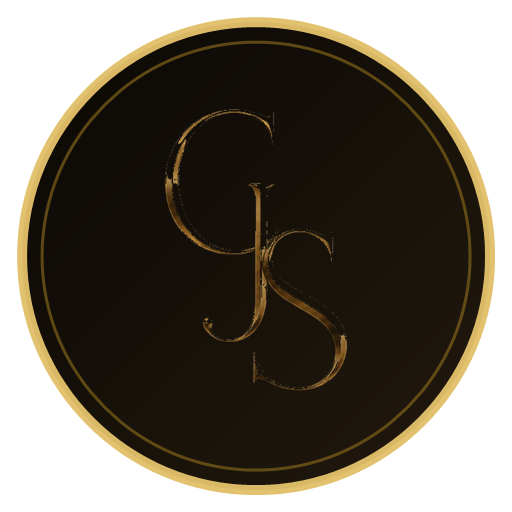
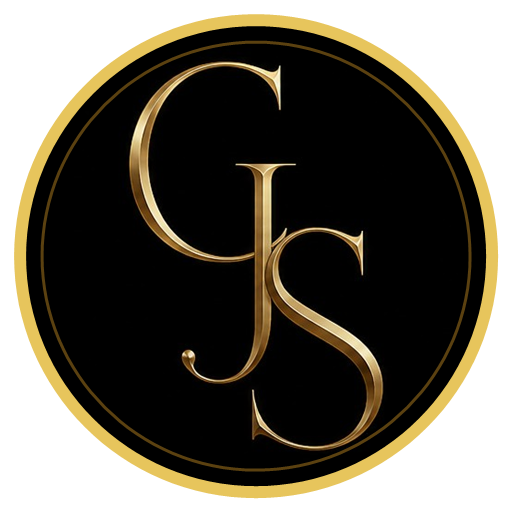
Add files via upload

diff --git a/about.html b/about.html
@@ -108,7 +108,7 @@ body{background:
 .top-menu-item:hover{background:rgba(201,168,76,.14);color:var(--gold3);}
 .top-menu-item span{font-size:13px;color:var(--gold3);white-space:nowrap;}
 @media (min-width:761px){.tab{font-size:15px;font-weight:400;color:#2f2418}.tab.active{font-weight:500;color:var(--gold3)}.tab-arrow-btn{font-weight:400}}
-@media (max-width:560px){.founder-photo{margin-bottom:76px;padding:10px 10px 16px;border-radius:32px 8px 32px 8px}.founder-photo::before{inset:24px -10px -18px 22px;border-radius:40px 8px 40px 8px}.founder-photo::after{right:-4px;top:62px;bottom:82px;width:5px}.founder-photo img{border-radius:24px 6px 24px 6px}.founder-photo-mark{right:18px;top:18px;width:46px;height:46px;padding:0}.founder-photo-badge{left:16px;right:16px;bottom:-46px;width:auto;padding:18px 18px}.founder-photo-badge strong{font-size:15px;letter-spacing:0;white-space:nowrap}.founder-photo-badge span{font-size:14px}.founder-photo-badge span::before{width:26px}}@media (max-width:760px){.top-menu-panel{top:118px;padding:10px 8px}.top-menu-inner{max-width:none;grid-template-columns:1fr 1fr;gap:8px}.top-menu-group{padding:8px}.top-menu-title{font-size:12px;letter-spacing:1px}.top-menu-list{max-height:min(52vh,430px);padding-right:3px}.top-menu-item{font-size:12px;padding:9px 8px;gap:6px;align-items:flex-start}.top-menu-item span{font-size:10px}}
+@media (max-width:560px){.founder-photo{margin-bottom:76px;padding:10px 10px 16px;border-radius:32px 8px 32px 8px}.founder-photo::before{inset:24px -10px -18px 22px;border-radius:40px 8px 40px 8px}.founder-photo::after{right:-4px;top:62px;bottom:82px;width:5px}.founder-photo img{border-radius:24px 6px 24px 6px}.founder-photo-mark{right:18px;top:18px;width:48px;height:48px;padding:0}.founder-photo-badge{left:16px;right:16px;bottom:-46px;width:auto;padding:18px 18px}.founder-photo-badge strong{font-size:15px;letter-spacing:0;white-space:nowrap}.founder-photo-badge span{font-size:14px}.founder-photo-badge span::before{width:26px}}@media (max-width:760px){.top-menu-panel{top:118px;padding:10px 8px}.top-menu-inner{max-width:none;grid-template-columns:1fr 1fr;gap:8px}.top-menu-group{padding:8px}.top-menu-title{font-size:12px;letter-spacing:1px}.top-menu-list{max-height:min(52vh,430px);padding-right:3px}.top-menu-item{font-size:12px;padding:9px 8px;gap:6px;align-items:flex-start}.top-menu-item span{font-size:10px}}
 @media (max-width:430px){.top-menu-item{font-size:11px;flex-direction:column}.top-menu-item span{font-size:9px}}
 .hero{position:relative;padding:70px 22px 54px;text-align:center;background:
   radial-gradient(circle at 50% 18%,rgba(201,168,76,.16),transparent 34%),
@@ -151,7 +151,7 @@ body{background:
 .about-founder-inner{max-width:1040px;margin:0 auto;display:grid;grid-template-columns:.78fr 1.22fr;gap:28px;align-items:start;}
 .about-founder-card{border:1px solid rgba(201,168,76,.32);background:linear-gradient(145deg,rgba(255,253,248,.98),rgba(250,244,232,.9));padding:24px 22px;box-shadow:0 14px 34px rgba(58,42,24,.08);}
 .founder-photo{position:relative;width:100%;aspect-ratio:3/4;margin:0 0 70px;padding:14px 14px 20px;border:1px solid rgba(201,168,76,.24);border-radius:46px 10px 46px 10px;overflow:visible;background:linear-gradient(145deg,rgba(255,253,248,.98),rgba(243,232,211,.82));box-shadow:0 22px 44px rgba(42,31,14,.13);isolation:isolate;}
-.founder-photo::before{content:"";position:absolute;inset:30px -18px -24px 34px;border:1px solid rgba(201,168,76,.42);border-radius:58px 8px 58px 8px;z-index:-2;}.founder-photo::after{content:"";position:absolute;right:-7px;top:78px;bottom:88px;width:8px;border-radius:999px;background:linear-gradient(180deg,rgba(226,192,106,.15),rgba(201,168,76,.72),rgba(139,107,26,.18));z-index:-1;}.founder-photo img{width:100%;height:100%;display:block;object-fit:cover;object-position:center top;border:1px solid rgba(201,168,76,.32);border-radius:34px 6px 34px 6px;box-shadow:0 16px 32px rgba(42,31,14,.14);}.founder-photo-mark{position:absolute;right:26px;top:26px;width:58px;height:58px;border-radius:50%;display:flex;align-items:center;justify-content:center;background:transparent;border:0;box-shadow:0 10px 20px rgba(42,31,14,.18);padding:0;}.founder-photo-mark img{width:100%;height:100%;display:block;object-fit:contain;border:0;border-radius:50%;box-shadow:none;background:transparent;}.founder-photo-badge{position:absolute;left:28px;bottom:-34px;width:min(92%,410px);background:rgba(255,253,248,.96);border-left:5px solid #B85A4A;border-radius:8px;padding:22px 26px;box-shadow:0 18px 36px rgba(42,31,14,.18);backdrop-filter:blur(6px);}.founder-photo-badge strong{display:block;font-family:'Noto Serif TC',serif;color:#A94738;font-size:18px;line-height:1.6;letter-spacing:.4px;margin-bottom:8px;white-space:nowrap;}.founder-photo-badge span{display:block;color:var(--ink2);font-size:16px;letter-spacing:.8px;line-height:1.8;}.founder-photo-badge span::before{content:"";display:inline-block;width:38px;height:1px;background:var(--ink2);vertical-align:middle;margin-right:8px;opacity:.72;}
+.founder-photo::before{content:"";position:absolute;inset:30px -18px -24px 34px;border:1px solid rgba(201,168,76,.42);border-radius:58px 8px 58px 8px;z-index:-2;}.founder-photo::after{content:"";position:absolute;right:-7px;top:78px;bottom:88px;width:8px;border-radius:999px;background:linear-gradient(180deg,rgba(226,192,106,.15),rgba(201,168,76,.72),rgba(139,107,26,.18));z-index:-1;}.founder-photo img{width:100%;height:100%;display:block;object-fit:cover;object-position:center top;border:1px solid rgba(201,168,76,.32);border-radius:34px 6px 34px 6px;box-shadow:0 16px 32px rgba(42,31,14,.14);}.founder-photo-mark{position:absolute;right:26px;top:26px;width:62px;height:62px;border-radius:50%;display:flex;align-items:center;justify-content:center;background:transparent;border:0;box-shadow:0 10px 20px rgba(42,31,14,.2);padding:0;}.founder-photo-mark img{width:100%;height:100%;display:block;object-fit:contain;border:0;border-radius:50%;box-shadow:none;background:transparent;}.founder-photo-badge{position:absolute;left:28px;bottom:-34px;width:min(92%,410px);background:rgba(255,253,248,.96);border-left:5px solid #B85A4A;border-radius:8px;padding:22px 26px;box-shadow:0 18px 36px rgba(42,31,14,.18);backdrop-filter:blur(6px);}.founder-photo-badge strong{display:block;font-family:'Noto Serif TC',serif;color:#A94738;font-size:18px;line-height:1.6;letter-spacing:.4px;margin-bottom:8px;white-space:nowrap;}.founder-photo-badge span{display:block;color:var(--ink2);font-size:16px;letter-spacing:.8px;line-height:1.8;}.founder-photo-badge span::before{content:"";display:inline-block;width:38px;height:1px;background:var(--ink2);vertical-align:middle;margin-right:8px;opacity:.72;}
 .about-founder-card h2,.experience-panel h2{font-family:'Noto Serif TC',serif;font-size:28px;line-height:1.5;letter-spacing:3px;color:var(--ink);margin-bottom:12px;}
 .about-founder-title{font-size:13px;color:var(--gold3);letter-spacing:2px;line-height:1.9;margin-bottom:16px;}
 .about-founder-card p{font-size:15px;line-height:2.1;color:var(--ink2);letter-spacing:.8px;}
@@ -183,7 +183,7 @@ button.official-link{width:100%;appearance:none;-webkit-appearance:none;}
 .seo-local-actions a{display:inline-flex;align-items:center;justify-content:center;border:1px solid rgba(139,107,26,.36);background:#fff;color:var(--gold3);padding:10px 14px;border-radius:4px;font-size:13px;font-weight:700;letter-spacing:1px;text-decoration:none;}
 .seo-local-actions a:hover{background:var(--gold3);color:#fff;}
 @media (max-width:900px){.about-founder-inner{grid-template-columns:1fr}.experience-grid{grid-template-columns:1fr}}
-@media (max-width:560px){.founder-photo{margin-bottom:76px;padding:10px 10px 16px;border-radius:32px 8px 32px 8px}.founder-photo::before{inset:24px -10px -18px 22px;border-radius:40px 8px 40px 8px}.founder-photo::after{right:-4px;top:62px;bottom:82px;width:5px}.founder-photo img{border-radius:24px 6px 24px 6px}.founder-photo-mark{right:18px;top:18px;width:46px;height:46px;padding:0}.founder-photo-badge{left:16px;right:16px;bottom:-46px;width:auto;padding:18px 18px}.founder-photo-badge strong{font-size:15px;letter-spacing:0;white-space:nowrap}.founder-photo-badge span{font-size:14px}.founder-photo-badge span::before{width:26px}}@media (max-width:760px){.seo-local-inner{grid-template-columns:1fr}.seo-local-card h2{font-size:22px}}
+@media (max-width:560px){.founder-photo{margin-bottom:76px;padding:10px 10px 16px;border-radius:32px 8px 32px 8px}.founder-photo::before{inset:24px -10px -18px 22px;border-radius:40px 8px 40px 8px}.founder-photo::after{right:-4px;top:62px;bottom:82px;width:5px}.founder-photo img{border-radius:24px 6px 24px 6px}.founder-photo-mark{right:18px;top:18px;width:48px;height:48px;padding:0}.founder-photo-badge{left:16px;right:16px;bottom:-46px;width:auto;padding:18px 18px}.founder-photo-badge strong{font-size:15px;letter-spacing:0;white-space:nowrap}.founder-photo-badge span{font-size:14px}.founder-photo-badge span::before{width:26px}}@media (max-width:760px){.seo-local-inner{grid-template-columns:1fr}.seo-local-card h2{font-size:22px}}
 
 .hero-media{position:absolute;inset:0;overflow:hidden;z-index:0;}
 .hero-media::after{content:'';position:absolute;inset:0;background:linear-gradient(90deg,rgba(26,18,7,.6),rgba(26,18,7,.22) 46%,rgba(250,244,232,.84) 100%);}
@@ -207,7 +207,7 @@ button.official-link{width:100%;appearance:none;-webkit-appearance:none;}
 .classroom-gallery{display:grid;grid-template-columns:1fr 1fr;gap:12px;}
 .classroom-gallery img{width:100%;height:230px;object-fit:cover;display:block;border:1px solid rgba(201,168,76,.28);box-shadow:0 12px 28px rgba(42,31,14,.12);}
 .classroom-gallery img:first-child{grid-row:span 2;height:472px;}
-@media (max-width:560px){.founder-photo{margin-bottom:76px;padding:10px 10px 16px;border-radius:32px 8px 32px 8px}.founder-photo::before{inset:24px -10px -18px 22px;border-radius:40px 8px 40px 8px}.founder-photo::after{right:-4px;top:62px;bottom:82px;width:5px}.founder-photo img{border-radius:24px 6px 24px 6px}.founder-photo-mark{right:18px;top:18px;width:46px;height:46px;padding:0}.founder-photo-badge{left:16px;right:16px;bottom:-46px;width:auto;padding:18px 18px}.founder-photo-badge strong{font-size:15px;letter-spacing:0;white-space:nowrap}.founder-photo-badge span{font-size:14px}.founder-photo-badge span::before{width:26px}}@media (max-width:760px){.hero-content{margin:0 auto;padding:26px 20px}.hero-media::after{background:linear-gradient(180deg,rgba(26,18,7,.34),rgba(255,248,235,.9) 72%)}.classroom-inner{grid-template-columns:1fr}.classroom-gallery img,.classroom-gallery img:first-child{height:230px}.classroom-gallery{grid-template-columns:1fr}}
+@media (max-width:560px){.founder-photo{margin-bottom:76px;padding:10px 10px 16px;border-radius:32px 8px 32px 8px}.founder-photo::before{inset:24px -10px -18px 22px;border-radius:40px 8px 40px 8px}.founder-photo::after{right:-4px;top:62px;bottom:82px;width:5px}.founder-photo img{border-radius:24px 6px 24px 6px}.founder-photo-mark{right:18px;top:18px;width:48px;height:48px;padding:0}.founder-photo-badge{left:16px;right:16px;bottom:-46px;width:auto;padding:18px 18px}.founder-photo-badge strong{font-size:15px;letter-spacing:0;white-space:nowrap}.founder-photo-badge span{font-size:14px}.founder-photo-badge span::before{width:26px}}@media (max-width:760px){.hero-content{margin:0 auto;padding:26px 20px}.hero-media::after{background:linear-gradient(180deg,rgba(26,18,7,.34),rgba(255,248,235,.9) 72%)}.classroom-inner{grid-template-columns:1fr}.classroom-gallery img,.classroom-gallery img:first-child{height:230px}.classroom-gallery{grid-template-columns:1fr}}
 .student-showcase{padding:44px 20px;background:linear-gradient(180deg,rgba(248,241,226,.92),rgba(255,253,248,.96));border-bottom:1px solid rgba(201,168,76,.18);}
 .student-showcase-inner{max-width:1120px;margin:0 auto;display:grid;grid-template-columns:.58fr 1.42fr;gap:24px;align-items:start;}
 .student-showcase h2{font-family:'Noto Serif TC',serif;font-size:26px;line-height:1.55;letter-spacing:3px;color:var(--ink);margin-bottom:10px;}
@@ -261,10 +261,10 @@ button.official-link{width:100%;appearance:none;-webkit-appearance:none;}
 .result-slide:nth-child(10){animation-delay:32.4s;}
 .result-slide:nth-child(11){animation-delay:36s;}
 @keyframes resultPhotoCycle{0%{opacity:0;transform:scale(1);}2%{opacity:1;}8%{opacity:1;}10%{opacity:0;transform:scale(.985);}100%{opacity:0;transform:scale(1);}}
-@media (max-width:560px){.founder-photo{margin-bottom:76px;padding:10px 10px 16px;border-radius:32px 8px 32px 8px}.founder-photo::before{inset:24px -10px -18px 22px;border-radius:40px 8px 40px 8px}.founder-photo::after{right:-4px;top:62px;bottom:82px;width:5px}.founder-photo img{border-radius:24px 6px 24px 6px}.founder-photo-mark{right:18px;top:18px;width:46px;height:46px;padding:0}.founder-photo-badge{left:16px;right:16px;bottom:-46px;width:auto;padding:18px 18px}.founder-photo-badge strong{font-size:15px;letter-spacing:0;white-space:nowrap}.founder-photo-badge span{font-size:14px}.founder-photo-badge span::before{width:26px}}@media (max-width:760px){.student-showcase-inner{grid-template-columns:1fr}.student-media-layout{grid-template-columns:1fr}.student-slideshow{min-height:520px}.student-video-box{height:230px;min-height:230px}.student-video-box video{height:230px;min-height:230px}.student-photo-grid,.student-photo-grid.practice{grid-template-columns:1fr 1fr}.student-photo-slot,.student-photo-slot.large{min-height:180px;grid-row:auto}.student-showcase h2{font-size:24px}.student-practice-showcase{padding:18px 12px}}
-@media (max-width:560px){.founder-photo{margin-bottom:76px;padding:10px 10px 16px;border-radius:32px 8px 32px 8px}.founder-photo::before{inset:24px -10px -18px 22px;border-radius:40px 8px 40px 8px}.founder-photo::after{right:-4px;top:62px;bottom:82px;width:5px}.founder-photo img{border-radius:24px 6px 24px 6px}.founder-photo-mark{right:18px;top:18px;width:46px;height:46px;padding:0}.founder-photo-badge{left:16px;right:16px;bottom:-46px;width:auto;padding:18px 18px}.founder-photo-badge strong{font-size:15px;letter-spacing:0;white-space:nowrap}.founder-photo-badge span{font-size:14px}.founder-photo-badge span::before{width:26px}}@media (max-width:760px){.student-result-section{padding:28px 14px}.result-showcase-carousel{min-height:520px}}
+@media (max-width:560px){.founder-photo{margin-bottom:76px;padding:10px 10px 16px;border-radius:32px 8px 32px 8px}.founder-photo::before{inset:24px -10px -18px 22px;border-radius:40px 8px 40px 8px}.founder-photo::after{right:-4px;top:62px;bottom:82px;width:5px}.founder-photo img{border-radius:24px 6px 24px 6px}.founder-photo-mark{right:18px;top:18px;width:48px;height:48px;padding:0}.founder-photo-badge{left:16px;right:16px;bottom:-46px;width:auto;padding:18px 18px}.founder-photo-badge strong{font-size:15px;letter-spacing:0;white-space:nowrap}.founder-photo-badge span{font-size:14px}.founder-photo-badge span::before{width:26px}}@media (max-width:760px){.student-showcase-inner{grid-template-columns:1fr}.student-media-layout{grid-template-columns:1fr}.student-slideshow{min-height:520px}.student-video-box{height:230px;min-height:230px}.student-video-box video{height:230px;min-height:230px}.student-photo-grid,.student-photo-grid.practice{grid-template-columns:1fr 1fr}.student-photo-slot,.student-photo-slot.large{min-height:180px;grid-row:auto}.student-showcase h2{font-size:24px}.student-practice-showcase{padding:18px 12px}}
+@media (max-width:560px){.founder-photo{margin-bottom:76px;padding:10px 10px 16px;border-radius:32px 8px 32px 8px}.founder-photo::before{inset:24px -10px -18px 22px;border-radius:40px 8px 40px 8px}.founder-photo::after{right:-4px;top:62px;bottom:82px;width:5px}.founder-photo img{border-radius:24px 6px 24px 6px}.founder-photo-mark{right:18px;top:18px;width:48px;height:48px;padding:0}.founder-photo-badge{left:16px;right:16px;bottom:-46px;width:auto;padding:18px 18px}.founder-photo-badge strong{font-size:15px;letter-spacing:0;white-space:nowrap}.founder-photo-badge span{font-size:14px}.founder-photo-badge span::before{width:26px}}@media (max-width:760px){.student-result-section{padding:28px 14px}.result-showcase-carousel{min-height:520px}}
 @media (max-width:430px){.student-photo-grid,.student-photo-grid.practice{grid-template-columns:1fr}.student-photo-slot{min-height:160px}}
-@media (max-width:560px){.founder-photo{margin-bottom:76px;padding:10px 10px 16px;border-radius:32px 8px 32px 8px}.founder-photo::before{inset:24px -10px -18px 22px;border-radius:40px 8px 40px 8px}.founder-photo::after{right:-4px;top:62px;bottom:82px;width:5px}.founder-photo img{border-radius:24px 6px 24px 6px}.founder-photo-mark{right:18px;top:18px;width:46px;height:46px;padding:0}.founder-photo-badge{left:16px;right:16px;bottom:-46px;width:auto;padding:18px 18px}.founder-photo-badge strong{font-size:15px;letter-spacing:0;white-space:nowrap}.founder-photo-badge span{font-size:14px}.founder-photo-badge span::before{width:26px}}@media (max-width:760px){.hero-content{background:transparent;border:none;box-shadow:none;backdrop-filter:none}.hero-content h1,.hero-content .hero-orn,.hero-content .hero-line,.hero-content .hero-quote{text-shadow:0 2px 12px rgba(255,253,248,.95),0 1px 3px rgba(255,253,248,.75)}}
+@media (max-width:560px){.founder-photo{margin-bottom:76px;padding:10px 10px 16px;border-radius:32px 8px 32px 8px}.founder-photo::before{inset:24px -10px -18px 22px;border-radius:40px 8px 40px 8px}.founder-photo::after{right:-4px;top:62px;bottom:82px;width:5px}.founder-photo img{border-radius:24px 6px 24px 6px}.founder-photo-mark{right:18px;top:18px;width:48px;height:48px;padding:0}.founder-photo-badge{left:16px;right:16px;bottom:-46px;width:auto;padding:18px 18px}.founder-photo-badge strong{font-size:15px;letter-spacing:0;white-space:nowrap}.founder-photo-badge span{font-size:14px}.founder-photo-badge span::before{width:26px}}@media (max-width:760px){.hero-content{background:transparent;border:none;box-shadow:none;backdrop-filter:none}.hero-content h1,.hero-content .hero-orn,.hero-content .hero-line,.hero-content .hero-quote{text-shadow:0 2px 12px rgba(255,253,248,.95),0 1px 3px rgba(255,253,248,.75)}}
 #tab-courses,#tab-products,#tab-cert,#tab-comp{max-width:640px;margin:0 auto;}
 #tab-courses,#tab-products{background:linear-gradient(180deg,rgba(243,232,211,.86),rgba(250,244,232,.58));border:1px solid rgba(201,168,76,.22);padding:18px 16px 24px;box-shadow:0 16px 42px rgba(58,42,24,.08);}
 #tab-cert,#tab-comp{background:linear-gradient(145deg,rgba(58,42,24,.96),rgba(92,67,38,.9));border:1px solid rgba(226,192,106,.42);padding:18px 16px 24px;box-shadow:0 18px 46px rgba(42,31,14,.18);}
@@ -283,7 +283,7 @@ button.official-link{width:100%;appearance:none;-webkit-appearance:none;}
 .course-menu-item{width:100%;border:0;background:transparent;color:var(--ink);padding:10px 12px;text-align:left;border-radius:6px;font-family:inherit;font-size:13px;line-height:1.45;cursor:pointer;display:flex;align-items:center;justify-content:space-between;gap:8px;}
 .course-menu-item:hover{background:rgba(201,168,76,.12);color:var(--gold3);}
 .course-menu-item span{font-size:11px;color:var(--gold3);white-space:nowrap;}
-@media (max-width:560px){.founder-photo{margin-bottom:76px;padding:10px 10px 16px;border-radius:32px 8px 32px 8px}.founder-photo::before{inset:24px -10px -18px 22px;border-radius:40px 8px 40px 8px}.founder-photo::after{right:-4px;top:62px;bottom:82px;width:5px}.founder-photo img{border-radius:24px 6px 24px 6px}.founder-photo-mark{right:18px;top:18px;width:46px;height:46px;padding:0}.founder-photo-badge{left:16px;right:16px;bottom:-46px;width:auto;padding:18px 18px}.founder-photo-badge strong{font-size:15px;letter-spacing:0;white-space:nowrap}.founder-photo-badge span{font-size:14px}.founder-photo-badge span::before{width:26px}}@media (max-width:760px){.course-switch{grid-template-columns:1fr 1fr;gap:8px}.course-menu-btn{padding:11px 8px;font-size:13px}.course-menu{max-height:300px;overflow:auto}.course-menu-item{font-size:12px;padding:10px 9px;letter-spacing:0}}
+@media (max-width:560px){.founder-photo{margin-bottom:76px;padding:10px 10px 16px;border-radius:32px 8px 32px 8px}.founder-photo::before{inset:24px -10px -18px 22px;border-radius:40px 8px 40px 8px}.founder-photo::after{right:-4px;top:62px;bottom:82px;width:5px}.founder-photo img{border-radius:24px 6px 24px 6px}.founder-photo-mark{right:18px;top:18px;width:48px;height:48px;padding:0}.founder-photo-badge{left:16px;right:16px;bottom:-46px;width:auto;padding:18px 18px}.founder-photo-badge strong{font-size:15px;letter-spacing:0;white-space:nowrap}.founder-photo-badge span{font-size:14px}.founder-photo-badge span::before{width:26px}}@media (max-width:760px){.course-switch{grid-template-columns:1fr 1fr;gap:8px}.course-menu-btn{padding:11px 8px;font-size:13px}.course-menu{max-height:300px;overflow:auto}.course-menu-item{font-size:12px;padding:10px 9px;letter-spacing:0}}
 .card-img.is-empty::after{content:'圖片準備中';font-size:13px;color:var(--gold3);letter-spacing:3px;}
 body.is-tab-view .home-only{display:none;}
 body.is-tab-view .brand-intro{padding:22px 20px 24px;}
@@ -319,7 +319,7 @@ body.page-home .brand-intro{padding-bottom:34px;}
 .signup-flow-note{background:rgba(255,253,248,.9);border-left:3px solid var(--gold);padding:13px 16px;font-size:14px;color:var(--ink2);line-height:2;letter-spacing:.3px;}
 @media (max-width:900px){.signup-flow-grid{grid-template-columns:1fr 1fr}.signup-flow-step:last-child{grid-column:1/-1}}
 @media (max-width:520px){.signup-flow-grid{grid-template-columns:1fr}.signup-flow-step:last-child{grid-column:auto}.signup-flow-head h2{font-size:22px}}
-@media (max-width:560px){.founder-photo{margin-bottom:76px;padding:10px 10px 16px;border-radius:32px 8px 32px 8px}.founder-photo::before{inset:24px -10px -18px 22px;border-radius:40px 8px 40px 8px}.founder-photo::after{right:-4px;top:62px;bottom:82px;width:5px}.founder-photo img{border-radius:24px 6px 24px 6px}.founder-photo-mark{right:18px;top:18px;width:46px;height:46px;padding:0}.founder-photo-badge{left:16px;right:16px;bottom:-46px;width:auto;padding:18px 18px}.founder-photo-badge strong{font-size:15px;letter-spacing:0;white-space:nowrap}.founder-photo-badge span{font-size:14px}.founder-photo-badge span::before{width:26px}}@media (max-width:760px){.brand-intro-inner{grid-template-columns:1fr;gap:18px}.official-links{grid-template-columns:1fr 1fr}.hero{padding:48px 18px 38px}.hero h1{font-size:28px;letter-spacing:3px}.brand-logo{width:72px;height:52px}.brand{font-size:23px}.brand-wrap{gap:10px;min-height:72px}.header-actions{gap:6px}.cart-btn{padding:6px 10px;font-size:12px}.tabs{top:73px}#sec-paper,#sec-marketing,#tab-products,#tab-cert,#tab-comp,#student-results{scroll-margin-top:128px}}
+@media (max-width:560px){.founder-photo{margin-bottom:76px;padding:10px 10px 16px;border-radius:32px 8px 32px 8px}.founder-photo::before{inset:24px -10px -18px 22px;border-radius:40px 8px 40px 8px}.founder-photo::after{right:-4px;top:62px;bottom:82px;width:5px}.founder-photo img{border-radius:24px 6px 24px 6px}.founder-photo-mark{right:18px;top:18px;width:48px;height:48px;padding:0}.founder-photo-badge{left:16px;right:16px;bottom:-46px;width:auto;padding:18px 18px}.founder-photo-badge strong{font-size:15px;letter-spacing:0;white-space:nowrap}.founder-photo-badge span{font-size:14px}.founder-photo-badge span::before{width:26px}}@media (max-width:760px){.brand-intro-inner{grid-template-columns:1fr;gap:18px}.official-links{grid-template-columns:1fr 1fr}.hero{padding:48px 18px 38px}.hero h1{font-size:28px;letter-spacing:3px}.brand-logo{width:72px;height:52px}.brand{font-size:23px}.brand-wrap{gap:10px;min-height:72px}.header-actions{gap:6px}.cart-btn{padding:6px 10px;font-size:12px}.tabs{top:73px}#sec-paper,#sec-marketing,#tab-products,#tab-cert,#tab-comp,#student-results{scroll-margin-top:128px}}
 .sec-label{font-size:13px;letter-spacing:3px;color:var(--gold3);margin-bottom:14px;display:flex;align-items:center;gap:10px;}
 .sec-label::before{content:'◆';font-size:9px;color:var(--gold);}
 .sec-label::after{content:'';flex:1;height:1px;background:linear-gradient(90deg,rgba(201,168,76,0.4),transparent);}
@@ -369,7 +369,7 @@ body.page-home .brand-intro{padding-bottom:34px;}
 #tab-products[data-product-category="memorial"] .product-memorial.mini-full{display:flex!important;}
 #tab-products[data-product-category="blessing"] .product-blessing.product-category-note,
 #tab-products[data-product-category="memorial"] .product-memorial.product-category-note{display:block!important;}
-@media (max-width:560px){.founder-photo{margin-bottom:76px;padding:10px 10px 16px;border-radius:32px 8px 32px 8px}.founder-photo::before{inset:24px -10px -18px 22px;border-radius:40px 8px 40px 8px}.founder-photo::after{right:-4px;top:62px;bottom:82px;width:5px}.founder-photo img{border-radius:24px 6px 24px 6px}.founder-photo-mark{right:18px;top:18px;width:46px;height:46px;padding:0}.founder-photo-badge{left:16px;right:16px;bottom:-46px;width:auto;padding:18px 18px}.founder-photo-badge strong{font-size:15px;letter-spacing:0;white-space:nowrap}.founder-photo-badge span{font-size:14px}.founder-photo-badge span::before{width:26px}}@media (max-width:760px){.product-highlight{grid-template-columns:1fr}.festival-item{grid-template-columns:1fr}.festival-date{text-align:left;white-space:normal}.offer-item{align-items:flex-start;flex-direction:column}.offer-actions,.offer-actions.three{grid-template-columns:1fr}.offer-btn{width:100%;}.product-category-switch{grid-template-columns:1fr 1fr;gap:8px}.product-category-btn{padding:12px 9px}.product-category-btn span{font-size:13px;letter-spacing:0;}.product-category-btn small{font-size:10px;letter-spacing:0;line-height:1.45;}}
+@media (max-width:560px){.founder-photo{margin-bottom:76px;padding:10px 10px 16px;border-radius:32px 8px 32px 8px}.founder-photo::before{inset:24px -10px -18px 22px;border-radius:40px 8px 40px 8px}.founder-photo::after{right:-4px;top:62px;bottom:82px;width:5px}.founder-photo img{border-radius:24px 6px 24px 6px}.founder-photo-mark{right:18px;top:18px;width:48px;height:48px;padding:0}.founder-photo-badge{left:16px;right:16px;bottom:-46px;width:auto;padding:18px 18px}.founder-photo-badge strong{font-size:15px;letter-spacing:0;white-space:nowrap}.founder-photo-badge span{font-size:14px}.founder-photo-badge span::before{width:26px}}@media (max-width:760px){.product-highlight{grid-template-columns:1fr}.festival-item{grid-template-columns:1fr}.festival-date{text-align:left;white-space:normal}.offer-item{align-items:flex-start;flex-direction:column}.offer-actions,.offer-actions.three{grid-template-columns:1fr}.offer-btn{width:100%;}.product-category-switch{grid-template-columns:1fr 1fr;gap:8px}.product-category-btn{padding:12px 9px}.product-category-btn span{font-size:13px;letter-spacing:0;}.product-category-btn small{font-size:10px;letter-spacing:0;line-height:1.45;}}
 .card-img{width:100%;height:178px;background:linear-gradient(160deg,#FDF7EC,#FAF0DC);display:flex;align-items:center;justify-content:center;border-bottom:1px solid rgba(201,168,76,0.15);overflow:hidden;}
 .card-img[style]{height:178px!important;padding:0!important;overflow:hidden!important;}
 .card-img img{width:100%;height:100%;display:block;object-fit:cover;max-height:none!important;}
@@ -389,20 +389,20 @@ body.page-home .brand-intro{padding-bottom:34px;}
 .course-photo-label{position:absolute;left:10px;top:10px;z-index:2;background:rgba(42,31,14,.76);color:#fff;font-size:12px;letter-spacing:1px;line-height:1.3;padding:4px 9px;}
 .card-img.course-photo-single{height:560px;background:linear-gradient(160deg,#fffaf0,#f4e6c9);}
 .card-img.course-photo-single img{width:100%;height:100%;object-fit:contain;object-position:center center;padding:6px;}
-@media (max-width:560px){.founder-photo{margin-bottom:76px;padding:10px 10px 16px;border-radius:32px 8px 32px 8px}.founder-photo::before{inset:24px -10px -18px 22px;border-radius:40px 8px 40px 8px}.founder-photo::after{right:-4px;top:62px;bottom:82px;width:5px}.founder-photo img{border-radius:24px 6px 24px 6px}.founder-photo-mark{right:18px;top:18px;width:46px;height:46px;padding:0}.founder-photo-badge{left:16px;right:16px;bottom:-46px;width:auto;padding:18px 18px}.founder-photo-badge strong{font-size:15px;letter-spacing:0;white-space:nowrap}.founder-photo-badge span{font-size:14px}.founder-photo-badge span::before{width:26px}}@media (max-width:760px){.card-img.course-photo-duo{height:230px}.card-img.course-photo-gallery{height:300px}.card-img.course-photo-single{height:520px}.course-photo-label{top:auto;bottom:10px;left:8px;font-size:11px;padding:5px 8px;line-height:1.25;}}
+@media (max-width:560px){.founder-photo{margin-bottom:76px;padding:10px 10px 16px;border-radius:32px 8px 32px 8px}.founder-photo::before{inset:24px -10px -18px 22px;border-radius:40px 8px 40px 8px}.founder-photo::after{right:-4px;top:62px;bottom:82px;width:5px}.founder-photo img{border-radius:24px 6px 24px 6px}.founder-photo-mark{right:18px;top:18px;width:48px;height:48px;padding:0}.founder-photo-badge{left:16px;right:16px;bottom:-46px;width:auto;padding:18px 18px}.founder-photo-badge strong{font-size:15px;letter-spacing:0;white-space:nowrap}.founder-photo-badge span{font-size:14px}.founder-photo-badge span::before{width:26px}}@media (max-width:760px){.card-img.course-photo-duo{height:230px}.card-img.course-photo-gallery{height:300px}.card-img.course-photo-single{height:520px}.course-photo-label{top:auto;bottom:10px;left:8px;font-size:11px;padding:5px 8px;line-height:1.25;}}
 .card-img.course-photo-gallery.fuyuan-poster-gallery{height:auto;}
 
 .card-img.poster-duo{height:auto;aspect-ratio:4/3;display:grid;grid-template-columns:1fr 1fr;gap:2px;align-items:stretch;overflow:hidden;background:linear-gradient(160deg,#fffaf0,#f4e6c9);}
 .card-img.poster-duo img{width:100% !important;height:100% !important;object-fit:cover;object-position:top center;padding:0;display:block;}
 .card-img.poster-single{height:520px;background:linear-gradient(160deg,#fffaf0,#f4e6c9);}
 .card-img.poster-single img{width:100%;height:100%;object-fit:contain;object-position:center center;padding:6px;}
-@media (max-width:560px){.founder-photo{margin-bottom:76px;padding:10px 10px 16px;border-radius:32px 8px 32px 8px}.founder-photo::before{inset:24px -10px -18px 22px;border-radius:40px 8px 40px 8px}.founder-photo::after{right:-4px;top:62px;bottom:82px;width:5px}.founder-photo img{border-radius:24px 6px 24px 6px}.founder-photo-mark{right:18px;top:18px;width:46px;height:46px;padding:0}.founder-photo-badge{left:16px;right:16px;bottom:-46px;width:auto;padding:18px 18px}.founder-photo-badge strong{font-size:15px;letter-spacing:0;white-space:nowrap}.founder-photo-badge span{font-size:14px}.founder-photo-badge span::before{width:26px}}@media (max-width:760px){.card-img.poster-duo{height:auto}.card-img.poster-single{height:500px}}
+@media (max-width:560px){.founder-photo{margin-bottom:76px;padding:10px 10px 16px;border-radius:32px 8px 32px 8px}.founder-photo::before{inset:24px -10px -18px 22px;border-radius:40px 8px 40px 8px}.founder-photo::after{right:-4px;top:62px;bottom:82px;width:5px}.founder-photo img{border-radius:24px 6px 24px 6px}.founder-photo-mark{right:18px;top:18px;width:48px;height:48px;padding:0}.founder-photo-badge{left:16px;right:16px;bottom:-46px;width:auto;padding:18px 18px}.founder-photo-badge strong{font-size:15px;letter-spacing:0;white-space:nowrap}.founder-photo-badge span{font-size:14px}.founder-photo-badge span::before{width:26px}}@media (max-width:760px){.card-img.poster-duo{height:auto}.card-img.poster-single{height:500px}}
 
 .card-img.cert-photo-duo{height:280px;display:grid;grid-template-columns:1fr 1fr;gap:2px;background:#f7efe1;}
 .card-img.cert-photo-duo img{width:100%;height:100%;object-fit:cover;object-position:center center;}
 .card-img.competition-photo{height:auto;background:#f7efe1;display:block;}
 .card-img.competition-photo img{width:100%;height:auto;display:block;object-fit:contain;}
-@media (max-width:560px){.founder-photo{margin-bottom:76px;padding:10px 10px 16px;border-radius:32px 8px 32px 8px}.founder-photo::before{inset:24px -10px -18px 22px;border-radius:40px 8px 40px 8px}.founder-photo::after{right:-4px;top:62px;bottom:82px;width:5px}.founder-photo img{border-radius:24px 6px 24px 6px}.founder-photo-mark{right:18px;top:18px;width:46px;height:46px;padding:0}.founder-photo-badge{left:16px;right:16px;bottom:-46px;width:auto;padding:18px 18px}.founder-photo-badge strong{font-size:15px;letter-spacing:0;white-space:nowrap}.founder-photo-badge span{font-size:14px}.founder-photo-badge span::before{width:26px}}@media (max-width:760px){.card-img.cert-photo-duo{height:230px}}
+@media (max-width:560px){.founder-photo{margin-bottom:76px;padding:10px 10px 16px;border-radius:32px 8px 32px 8px}.founder-photo::before{inset:24px -10px -18px 22px;border-radius:40px 8px 40px 8px}.founder-photo::after{right:-4px;top:62px;bottom:82px;width:5px}.founder-photo img{border-radius:24px 6px 24px 6px}.founder-photo-mark{right:18px;top:18px;width:48px;height:48px;padding:0}.founder-photo-badge{left:16px;right:16px;bottom:-46px;width:auto;padding:18px 18px}.founder-photo-badge strong{font-size:15px;letter-spacing:0;white-space:nowrap}.founder-photo-badge span{font-size:14px}.founder-photo-badge span::before{width:26px}}@media (max-width:760px){.card-img.cert-photo-duo{height:230px}}
 .cert-motion-title{position:relative;min-height:360px;margin-bottom:14px;padding:30px 24px;display:flex;align-items:center;justify-content:center;text-align:center;overflow:hidden;border:1px solid rgba(201,168,76,.32);background:#2c2116;box-shadow:0 14px 34px rgba(139,107,26,.08);}
 .cert-motion-title::before{content:'';position:absolute;inset:0;z-index:1;background:linear-gradient(90deg,rgba(24,14,8,.72),rgba(24,14,8,.36),rgba(255,248,232,.2));}
 .cert-scene-gallery{position:absolute;inset:0;z-index:0;}
@@ -423,7 +423,7 @@ body.page-home .brand-intro{padding-bottom:34px;}
 .cert-motion-title h2{font-family:'Noto Serif TC',serif;font-size:30px;line-height:1.55;letter-spacing:4px;color:#fff;text-shadow:0 3px 18px rgba(0,0,0,.46);animation:certTitleIn 3.4s cubic-bezier(.2,.8,.2,1) both;}
 @keyframes certSceneCycle{0%{opacity:0;transform:scale(1.08);}2.5%{opacity:1;}7%{opacity:1;}8.5%{opacity:0;transform:scale(1.02);}100%{opacity:0;transform:scale(1.08);}}
 @keyframes certTitleIn{0%{opacity:0;transform:scale(.86);filter:blur(4px);}68%{opacity:1;transform:scale(1.035);filter:blur(0);}100%{opacity:1;transform:scale(1);filter:blur(0);}}
-@media (max-width:560px){.founder-photo{margin-bottom:76px;padding:10px 10px 16px;border-radius:32px 8px 32px 8px}.founder-photo::before{inset:24px -10px -18px 22px;border-radius:40px 8px 40px 8px}.founder-photo::after{right:-4px;top:62px;bottom:82px;width:5px}.founder-photo img{border-radius:24px 6px 24px 6px}.founder-photo-mark{right:18px;top:18px;width:46px;height:46px;padding:0}.founder-photo-badge{left:16px;right:16px;bottom:-46px;width:auto;padding:18px 18px}.founder-photo-badge strong{font-size:15px;letter-spacing:0;white-space:nowrap}.founder-photo-badge span{font-size:14px}.founder-photo-badge span::before{width:26px}}@media (max-width:760px){.cert-motion-title{min-height:315px;padding:26px 16px}.cert-motion-title h2{font-size:25px;letter-spacing:3px}.cert-motion-title::before{background:linear-gradient(90deg,rgba(24,14,8,.76),rgba(24,14,8,.42),rgba(255,248,232,.18));}}
+@media (max-width:560px){.founder-photo{margin-bottom:76px;padding:10px 10px 16px;border-radius:32px 8px 32px 8px}.founder-photo::before{inset:24px -10px -18px 22px;border-radius:40px 8px 40px 8px}.founder-photo::after{right:-4px;top:62px;bottom:82px;width:5px}.founder-photo img{border-radius:24px 6px 24px 6px}.founder-photo-mark{right:18px;top:18px;width:48px;height:48px;padding:0}.founder-photo-badge{left:16px;right:16px;bottom:-46px;width:auto;padding:18px 18px}.founder-photo-badge strong{font-size:15px;letter-spacing:0;white-space:nowrap}.founder-photo-badge span{font-size:14px}.founder-photo-badge span::before{width:26px}}@media (max-width:760px){.cert-motion-title{min-height:315px;padding:26px 16px}.cert-motion-title h2{font-size:25px;letter-spacing:3px}.cert-motion-title::before{background:linear-gradient(90deg,rgba(24,14,8,.76),rgba(24,14,8,.42),rgba(255,248,232,.18));}}
 
 
 .card-body{padding:14px 14px 9px 18px;}
@@ -483,7 +483,7 @@ body.page-home .brand-intro{padding-bottom:34px;}
 .mini-full{background:var(--white);border:1px solid rgba(201,168,76,0.25);border-radius:8px;padding:14px;position:relative;overflow:hidden;display:flex;align-items:center;gap:12px;margin-bottom:8px;cursor:pointer;}
 .mini-full::before{content:'';position:absolute;top:0;left:0;right:0;height:2px;background:linear-gradient(90deg,var(--gold2),var(--gold3));}
 .mini-full:hover{background:#FFFBF0;}
-@media (max-width:560px){.founder-photo{margin-bottom:76px;padding:10px 10px 16px;border-radius:32px 8px 32px 8px}.founder-photo::before{inset:24px -10px -18px 22px;border-radius:40px 8px 40px 8px}.founder-photo::after{right:-4px;top:62px;bottom:82px;width:5px}.founder-photo img{border-radius:24px 6px 24px 6px}.founder-photo-mark{right:18px;top:18px;width:46px;height:46px;padding:0}.founder-photo-badge{left:16px;right:16px;bottom:-46px;width:auto;padding:18px 18px}.founder-photo-badge strong{font-size:15px;letter-spacing:0;white-space:nowrap}.founder-photo-badge span{font-size:14px}.founder-photo-badge span::before{width:26px}}@media (max-width:760px){.mini-photo{height:225px}.product-card-photos{height:300px}.mini-actions{grid-template-columns:1fr}.product-card-actions{min-width:0;width:100%;}.mini-line-btn,.mini-inquiry-btn{width:100%;}}
+@media (max-width:560px){.founder-photo{margin-bottom:76px;padding:10px 10px 16px;border-radius:32px 8px 32px 8px}.founder-photo::before{inset:24px -10px -18px 22px;border-radius:40px 8px 40px 8px}.founder-photo::after{right:-4px;top:62px;bottom:82px;width:5px}.founder-photo img{border-radius:24px 6px 24px 6px}.founder-photo-mark{right:18px;top:18px;width:48px;height:48px;padding:0}.founder-photo-badge{left:16px;right:16px;bottom:-46px;width:auto;padding:18px 18px}.founder-photo-badge strong{font-size:15px;letter-spacing:0;white-space:nowrap}.founder-photo-badge span{font-size:14px}.founder-photo-badge span::before{width:26px}}@media (max-width:760px){.mini-photo{height:225px}.product-card-photos{height:300px}.mini-actions{grid-template-columns:1fr}.product-card-actions{min-width:0;width:100%;}.mini-line-btn,.mini-inquiry-btn{width:100%;}}
 .overlay{display:none;position:fixed;inset:0;background:rgba(42,31,14,.6);z-index:200;}
 .overlay.open{display:flex;align-items:flex-end;}
 .bottom-sheet{background:var(--white);border-radius:16px 16px 0 0;border-top:3px solid var(--gold);padding:20px 18px 32px;width:100%;max-width:520px;margin:0 auto;max-height:80vh;overflow-y:auto;transform:translateY(100%);transition:transform .3s ease;}
@@ -577,7 +577,7 @@ textarea{resize:vertical;height:70px;}
 .social-float-link.fb{background:#1877F2;font-size:20px;font-family:Arial,sans-serif;}
 .social-float-link.tt{background:#111;font-size:19px;}
 .line-float-btn{background:#06C755;color:#fff;padding:11px 16px;border-radius:30px;font-size:12px;font-weight:700;text-decoration:none;box-shadow:0 4px 14px rgba(6,199,85,0.35);display:flex;align-items:center;gap:6px;letter-spacing:1px;}
-@media (max-width:560px){.founder-photo{margin-bottom:76px;padding:10px 10px 16px;border-radius:32px 8px 32px 8px}.founder-photo::before{inset:24px -10px -18px 22px;border-radius:40px 8px 40px 8px}.founder-photo::after{right:-4px;top:62px;bottom:82px;width:5px}.founder-photo img{border-radius:24px 6px 24px 6px}.founder-photo-mark{right:18px;top:18px;width:46px;height:46px;padding:0}.founder-photo-badge{left:16px;right:16px;bottom:-46px;width:auto;padding:18px 18px}.founder-photo-badge strong{font-size:15px;letter-spacing:0;white-space:nowrap}.founder-photo-badge span{font-size:14px}.founder-photo-badge span::before{width:26px}}@media (max-width:760px){.float-actions{right:14px;bottom:18px}.back-top-btn{width:42px;height:42px;font-size:21px}.line-float-btn{padding:12px 16px;font-size:13px;}.social-float-toggle,.social-float-link{font-size:13px;}}
+@media (max-width:560px){.founder-photo{margin-bottom:76px;padding:10px 10px 16px;border-radius:32px 8px 32px 8px}.founder-photo::before{inset:24px -10px -18px 22px;border-radius:40px 8px 40px 8px}.founder-photo::after{right:-4px;top:62px;bottom:82px;width:5px}.founder-photo img{border-radius:24px 6px 24px 6px}.founder-photo-mark{right:18px;top:18px;width:48px;height:48px;padding:0}.founder-photo-badge{left:16px;right:16px;bottom:-46px;width:auto;padding:18px 18px}.founder-photo-badge strong{font-size:15px;letter-spacing:0;white-space:nowrap}.founder-photo-badge span{font-size:14px}.founder-photo-badge span::before{width:26px}}@media (max-width:760px){.float-actions{right:14px;bottom:18px}.back-top-btn{width:42px;height:42px;font-size:21px}.line-float-btn{padding:12px 16px;font-size:13px;}.social-float-toggle,.social-float-link{font-size:13px;}}
 </style>
 </head>
 <body>

diff --git a/index.html b/index.html
@@ -154,7 +154,7 @@ body{background:
 .founder-photo::before{content:'';position:absolute;inset:30px -18px -24px 34px;border:1px solid rgba(201,168,76,.42);border-radius:58px 8px 58px 8px;z-index:-2;}
 .founder-photo::after{content:'';position:absolute;right:-7px;top:78px;bottom:88px;width:8px;border-radius:999px;background:linear-gradient(180deg,rgba(226,192,106,.15),rgba(201,168,76,.72),rgba(139,107,26,.18));z-index:-1;}
 .founder-photo img{width:100%;height:100%;display:block;object-fit:cover;object-position:center top;border:1px solid rgba(201,168,76,.32);border-radius:34px 6px 34px 6px;box-shadow:0 16px 32px rgba(42,31,14,.14);}
-.founder-photo-mark{position:absolute;right:26px;top:26px;width:58px;height:58px;border-radius:50%;display:flex;align-items:center;justify-content:center;background:transparent;border:0;box-shadow:0 10px 20px rgba(42,31,14,.18);padding:0;}
+.founder-photo-mark{position:absolute;right:26px;top:26px;width:62px;height:62px;border-radius:50%;display:flex;align-items:center;justify-content:center;background:transparent;border:0;box-shadow:0 10px 20px rgba(42,31,14,.2);padding:0;}
 .founder-photo-mark img{width:100%;height:100%;display:block;object-fit:contain;border:0;border-radius:50%;box-shadow:none;background:transparent;}.founder-photo-badge{position:absolute;left:28px;bottom:-34px;width:min(92%,410px);background:rgba(255,253,248,.96);border-left:5px solid #B85A4A;border-radius:8px;padding:22px 26px;box-shadow:0 18px 36px rgba(42,31,14,.18);backdrop-filter:blur(6px);}
 .founder-photo-badge strong{display:block;font-family:'Noto Serif TC',serif;color:#A94738;font-size:18px;line-height:1.6;letter-spacing:.4px;margin-bottom:8px;white-space:nowrap;}
 .founder-photo-badge span{display:block;color:var(--ink2);font-size:16px;letter-spacing:.8px;line-height:1.8;}
@@ -190,7 +190,7 @@ button.official-link{width:100%;appearance:none;-webkit-appearance:none;}
 .seo-local-actions a{display:inline-flex;align-items:center;justify-content:center;border:1px solid rgba(139,107,26,.36);background:#fff;color:var(--gold3);padding:10px 14px;border-radius:4px;font-size:13px;font-weight:700;letter-spacing:1px;text-decoration:none;}
 .seo-local-actions a:hover{background:var(--gold3);color:#fff;}
 @media (max-width:900px){.about-founder-inner{grid-template-columns:1fr}.experience-grid{grid-template-columns:1fr}}
-@media (max-width:560px){.founder-photo{margin-bottom:76px;padding:10px 10px 16px;border-radius:32px 8px 32px 8px}.founder-photo::before{inset:24px -10px -18px 22px;border-radius:40px 8px 40px 8px}.founder-photo::after{right:-4px;top:62px;bottom:82px;width:5px}.founder-photo img{border-radius:24px 6px 24px 6px}.founder-photo-mark{right:18px;top:18px;width:46px;height:46px;padding:0}.founder-photo-badge{left:16px;right:16px;bottom:-46px;width:auto;padding:18px 18px}.founder-photo-badge strong{font-size:15px;letter-spacing:0;white-space:nowrap}.founder-photo-badge span{font-size:14px}.founder-photo-badge span::before{width:26px}}
+@media (max-width:560px){.founder-photo{margin-bottom:76px;padding:10px 10px 16px;border-radius:32px 8px 32px 8px}.founder-photo::before{inset:24px -10px -18px 22px;border-radius:40px 8px 40px 8px}.founder-photo::after{right:-4px;top:62px;bottom:82px;width:5px}.founder-photo img{border-radius:24px 6px 24px 6px}.founder-photo-mark{right:18px;top:18px;width:48px;height:48px;padding:0}.founder-photo-badge{left:16px;right:16px;bottom:-46px;width:auto;padding:18px 18px}.founder-photo-badge strong{font-size:15px;letter-spacing:0;white-space:nowrap}.founder-photo-badge span{font-size:14px}.founder-photo-badge span::before{width:26px}}
 @media (max-width:760px){.seo-local-inner{grid-template-columns:1fr}.seo-local-card h2{font-size:22px}}
 
 .hero-media{position:absolute;inset:0;overflow:hidden;z-index:0;}